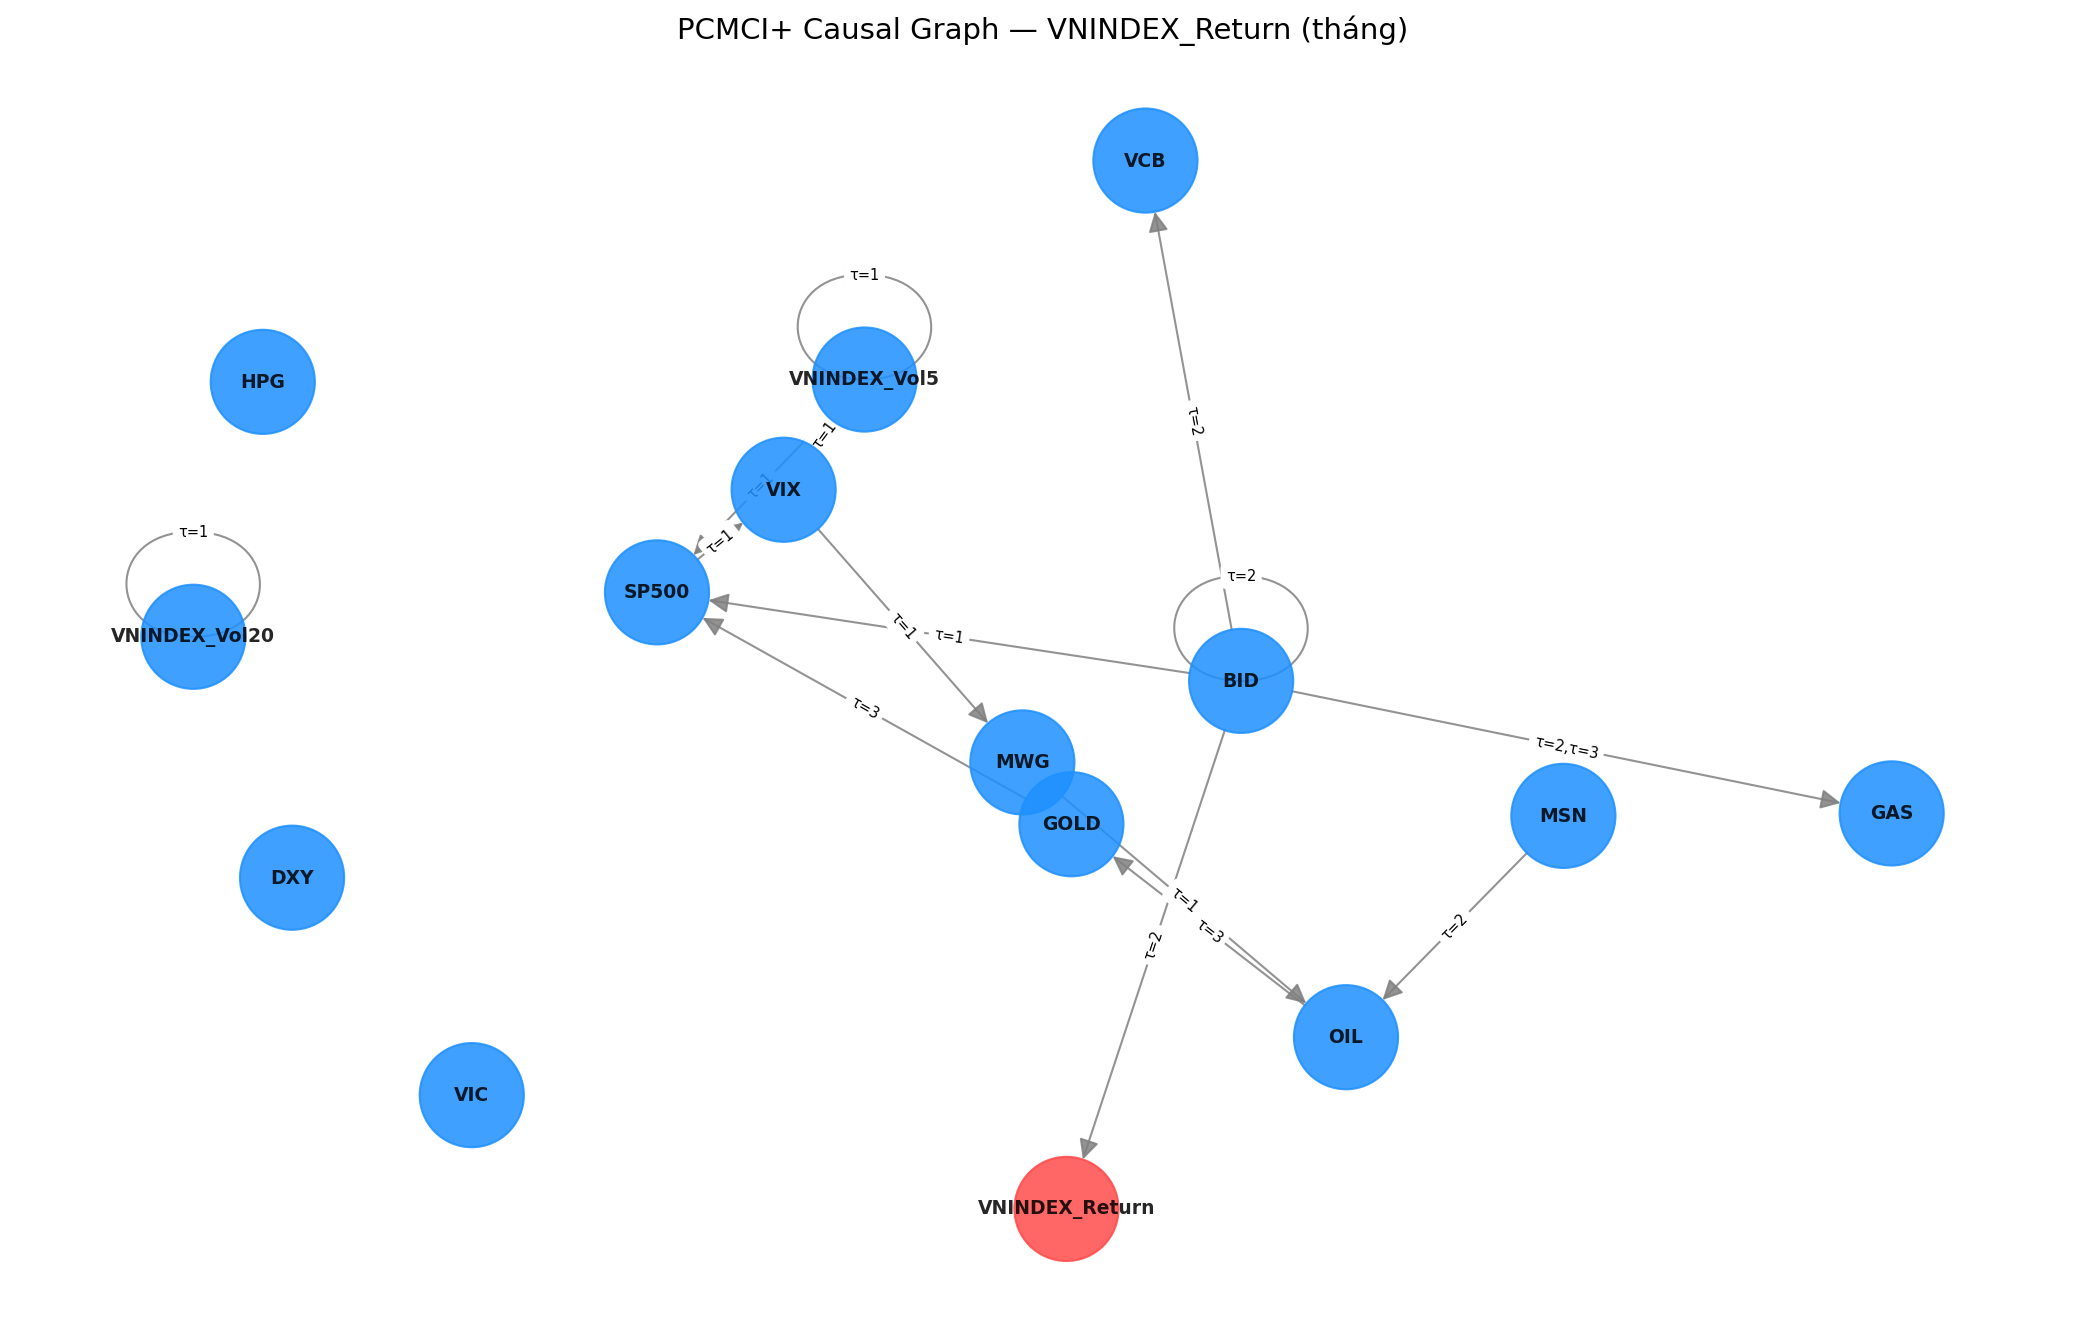
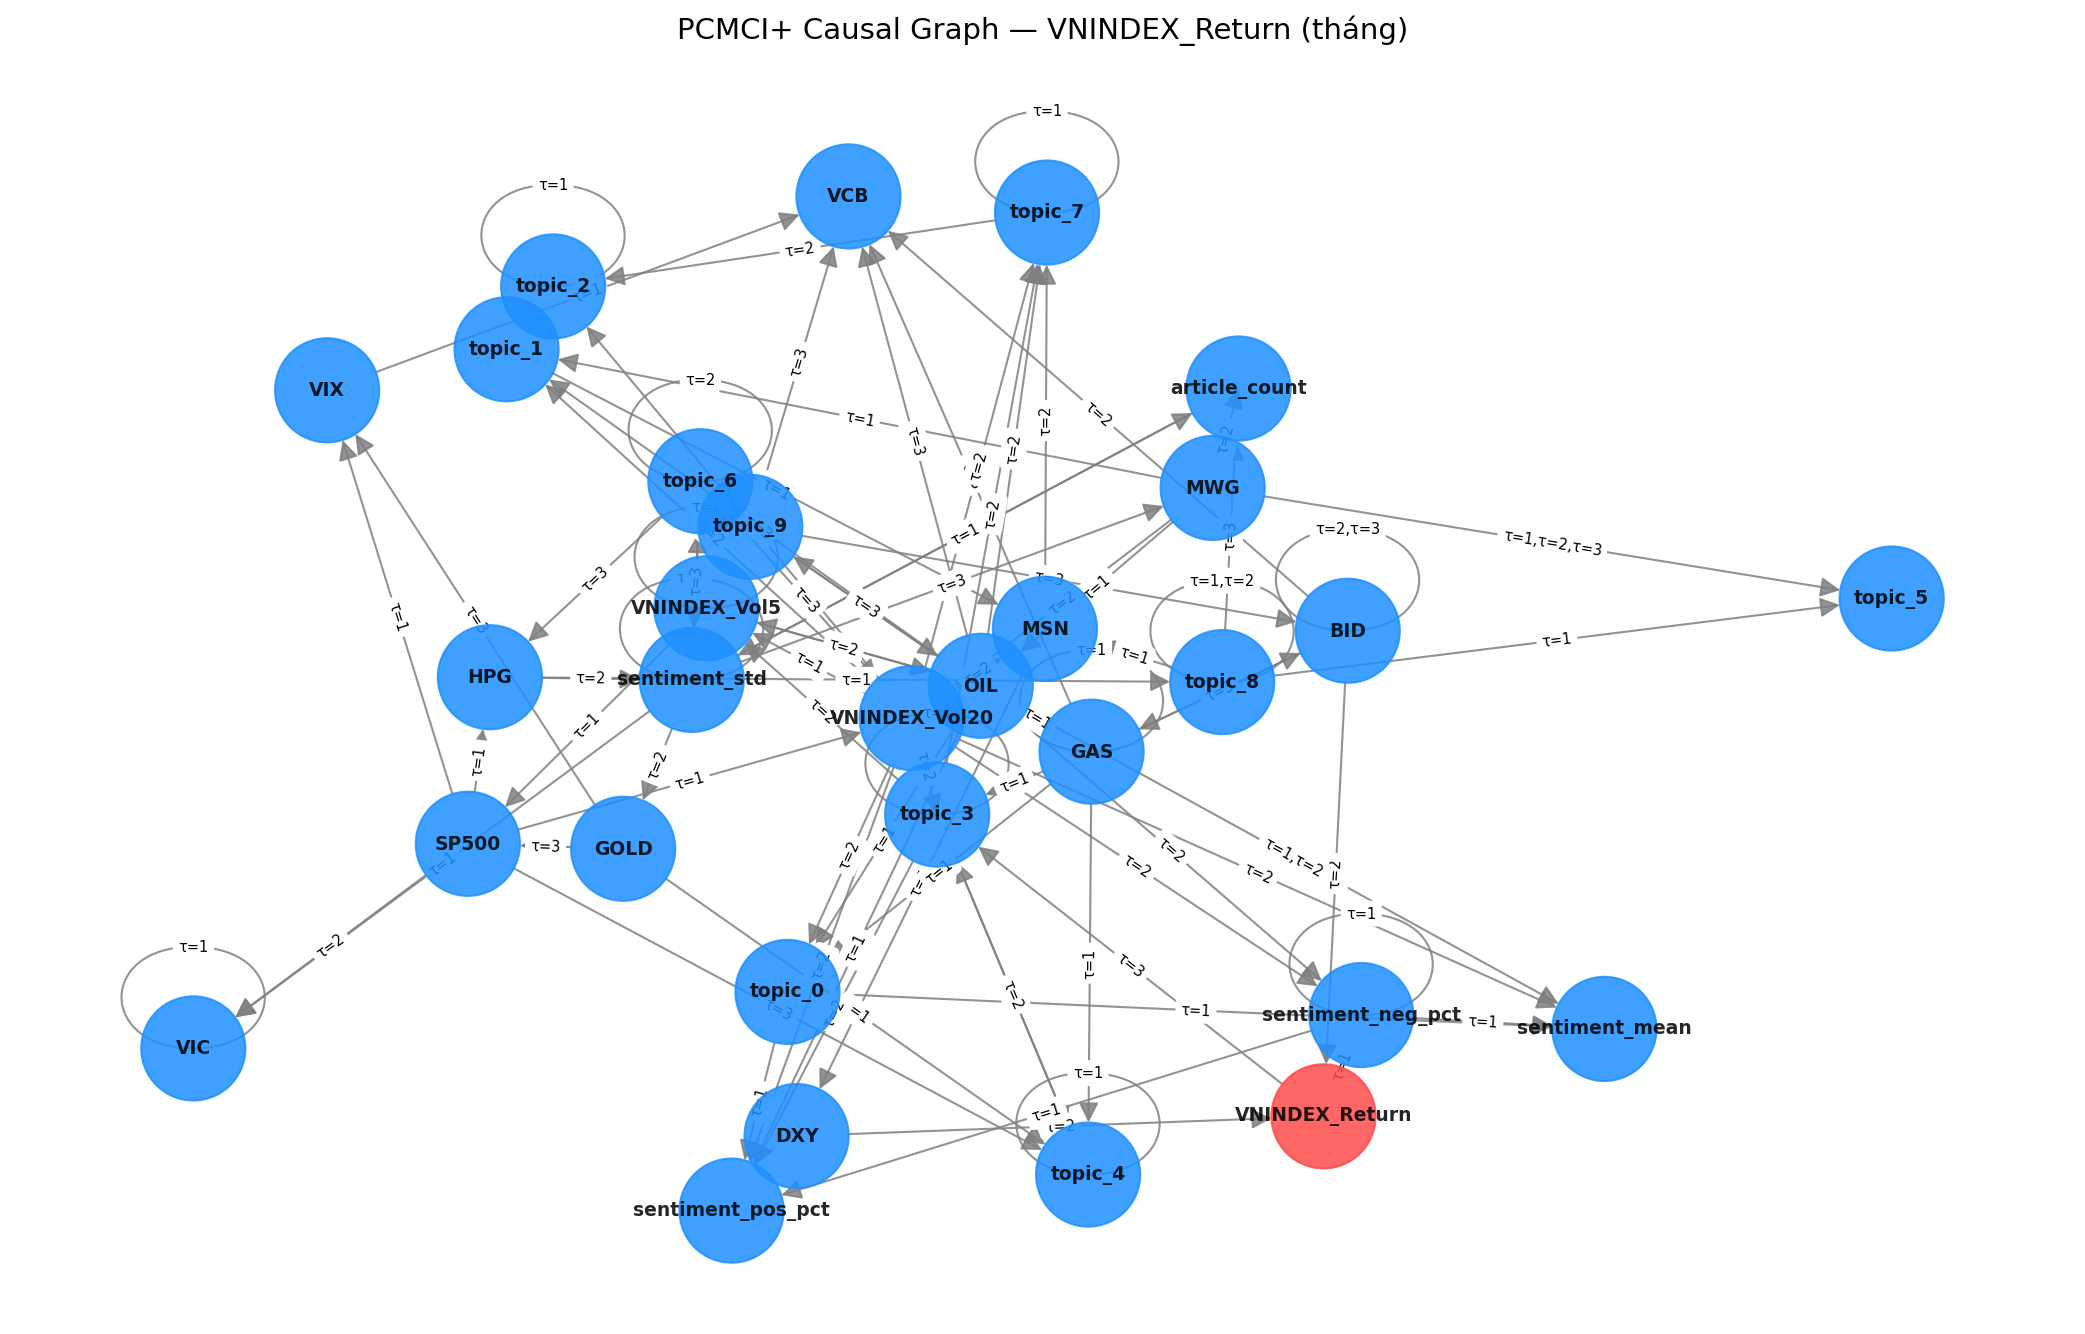
feat: export trained LDA model and dictionary files for VNEconomy dataset

diff --git a/causal_forecaster.py b/causal_forecaster.py
@@ -620,6 +620,38 @@ class CausalForecaster:
         return {'model': model_name, 'mse': mse, 'mae': mae, 'da': da,
                 'actuals': actuals, 'predictions': predictions}
 
+    def _rolling_forecast_clf(self, df, feature_cols, window_size=60):
+        """Rolling window Logistic Regression — dự báo trực tiếp chiều tăng/giảm."""
+        from sklearn.linear_model import LogisticRegression
+
+        df_lag = df[feature_cols].shift(1).copy()
+        df_lag[self.target_col] = df[self.target_col]
+        df_lag = df_lag.dropna()
+
+        y_cont = df_lag[self.target_col].values
+        y      = (y_cont > 0).astype(int)   # 1=tăng, 0=giảm
+        X      = df_lag[feature_cols].values
+
+        predictions, actuals = [], []
+        for i in range(window_size, len(df_lag)):
+            X_train, y_train = X[i - window_size:i], y[i - window_size:i]
+            X_test = X[i:i + 1]
+
+            if len(np.unique(y_train)) < 2:
+                predictions.append(0)
+                actuals.append(y_cont[i])
+                continue
+
+            scaler = StandardScaler()
+            clf = LogisticRegression(max_iter=500, C=1.0)
+            clf.fit(scaler.fit_transform(X_train), y_train)
+            pred_dir = clf.predict(scaler.transform(X_test))[0]
+            # Chuyển về sign để dùng chung evaluate()
+            predictions.append(1.0 if pred_dir == 1 else -1.0)
+            actuals.append(y_cont[i])
+
+        return np.array(actuals), np.array(predictions)
+
     def compare_models(self, df, window_size=60, freq: str = "monthly",
                        use_lstm: bool = False, lstm_epochs: int = 20):
         """
@@ -627,27 +659,35 @@ class CausalForecaster:
           1. All-features Ridge
           2. LASSO Ridge
           3. Causal Ridge (PCMCI+)
-          4. Causal LSTM (PCMCI+ features, nếu use_lstm=True)
+          4. Causal Logistic (PCMCI+ features) — tối ưu trực tiếp DA
+          5. Causal LSTM (PCMCI+ features, nếu use_lstm=True)
         """
         all_cols = [c for c in df.columns if c != self.target_col]
 
-        print("\n[1/3] All-features Ridge")
+        print("\n[1/4] All-features Ridge")
         act, pred_all = self._rolling_forecast(df, all_cols, window_size)
         r_all = self.evaluate(act, pred_all, 'All-features Ridge')
 
-        print("\n[2/3] LASSO Ridge")
+        print("\n[2/4] LASSO Ridge")
         df_lasso  = self.reduce_dimensions(df, method='lasso')
         lasso_cols = [c for c in df_lasso.columns if c != self.target_col]
         _, pred_lasso = self._rolling_forecast(df, lasso_cols, window_size)
         r_lasso = self.evaluate(act, pred_lasso, 'LASSO Ridge')
 
-        print("\n[3/3] Causal Ridge (PCMCI+)")
+        print("\n[3/4] Causal Ridge (PCMCI+)")
         r_causal = None
         if self.selected_features:
             _, pred_causal = self._rolling_forecast(df, self.selected_features, window_size)
             r_causal = self.evaluate(act, pred_causal, 'Causal Ridge (PCMCI+)')
         else:
             print("  Không tìm được causal features.")
+
+        print("\n[4/4] Causal Logistic (PCMCI+ — tối ưu DA trực tiếp)")
+        r_clf = None
+        clf_cols = self.selected_features if self.selected_features else lasso_cols
+        if clf_cols:
+            _, pred_clf = self._rolling_forecast_clf(df, clf_cols, window_size)
+            r_clf = self.evaluate(act, pred_clf, 'Causal Logistic')
 
         r_lstm = None
         if use_lstm and TORCH_AVAILABLE and self.selected_features:
@@ -662,7 +702,7 @@ class CausalForecaster:
             if act_lstm is not None:
                 r_lstm = self.evaluate(act_lstm, pred_lstm, 'Causal LSTM (PCMCI+)')
 
-        results = {'all': r_all, 'lasso': r_lasso, 'causal': r_causal, 'lstm': r_lstm}
+        results = {'all': r_all, 'lasso': r_lasso, 'causal': r_causal, 'clf': r_clf, 'lstm': r_lstm}
         self._plot_comparison(results, act, freq=freq)
         return results
 

diff --git a/main.py b/main.py
@@ -18,7 +18,7 @@ from data_loader import load_dataset
 FREQ_CONFIG = {
     "monthly": {
         "tau_max":     3,    # lag tối đa: 3 tháng
-        "pc_alpha":    0.05,
+        "pc_alpha":    0.1,  # nới lỏng hơn vì monthly chỉ ~132 điểm
         "window_size": 60,   # rolling window: 60 tháng (~5 năm)
         "unit":        "tháng",
     },
@@ -51,11 +51,20 @@ def main(freq: str = "monthly", use_cache: bool = True):
     else:
         print("  Tất cả columns đã stationary. ✓")
 
+    # 2b. Fix non-stationary + NaN trước khi đưa vào PCMCI+
+    df_clean = df.copy()
+    if non_stat:
+        print(f"  → Diff các cột non-stationary: {non_stat}")
+        df_clean[non_stat] = df_clean[non_stat].diff()
+    before = len(df_clean)
+    df_clean = df_clean.dropna()
+    print(f"  → Sau khi dropna: {before} → {len(df_clean)} hàng")
+
     # 3. Causal discovery — PCMCI+
     #    tau_min=1 đảm bảo chỉ tìm X(t-τ) → Y(t), không look-ahead bias.
     print(f"\n--- 3. Causal Discovery (PCMCI+, tau_max={cfg['tau_max']}) ---")
     forecaster.perform_causal_discovery(
-        df,
+        df_clean,
         tau_max=cfg["tau_max"],
         pc_alpha=cfg["pc_alpha"],
     )
@@ -70,9 +79,9 @@ def main(freq: str = "monthly", use_cache: bool = True):
     impact_df = forecaster.news_impact_report()
 
     # 5. So sánh 3 baselines với rolling window
-    window = min(cfg["window_size"], len(df) // 3)
+    window = min(cfg["window_size"], len(df_clean) // 3)
     print(f"\n--- 5. Model Comparison (Rolling Window = {window} {cfg['unit']}) ---")
-    results = forecaster.compare_models(df, window_size=window, freq=freq)
+    results = forecaster.compare_models(df_clean, window_size=window, freq=freq)
 
     # 6. Tổng kết
     print("\n=== KẾT QUẢ TỔNG KẾT ===")

diff --git a/data_loader.py b/data_loader.py
@@ -266,9 +266,22 @@ def load_dataset(use_cache: bool = True, freq: str = "monthly",
     if use_cache and cache_path.exists():
         print(f"Đọc từ cache: {cache_path}")
         df = pd.read_csv(cache_path, index_col=0, parse_dates=True)
+        # Bỏ news columns cũ (nếu có) để merge lại với data mới nhất
+        news_cols_old = [c for c in df.columns if c.startswith("sentiment") or c.startswith("topic") or c == "article_count"]
+        if news_cols_old:
+            df = df.drop(columns=news_cols_old)
         print(f"  Shape: {df.shape}")
         print(f"  Thời gian: {df.index[0].date()} → {df.index[-1].date()}")
         print(f"  Columns: {list(df.columns)}")
+        if with_news:
+            df_news = load_news_features(freq)
+            if not df_news.empty:
+                df = df.join(df_news, how="left")
+                news_cols = df_news.columns.tolist()
+                df[news_cols] = df[news_cols].ffill(limit=5)
+                n_filled = df[news_cols[0]].notna().sum()
+                print(f"  [News] Tích hợp {len(news_cols)} news features "
+                      f"({n_filled}/{len(df)} hàng có dữ liệu)")
         return df
 
     # Tải mới